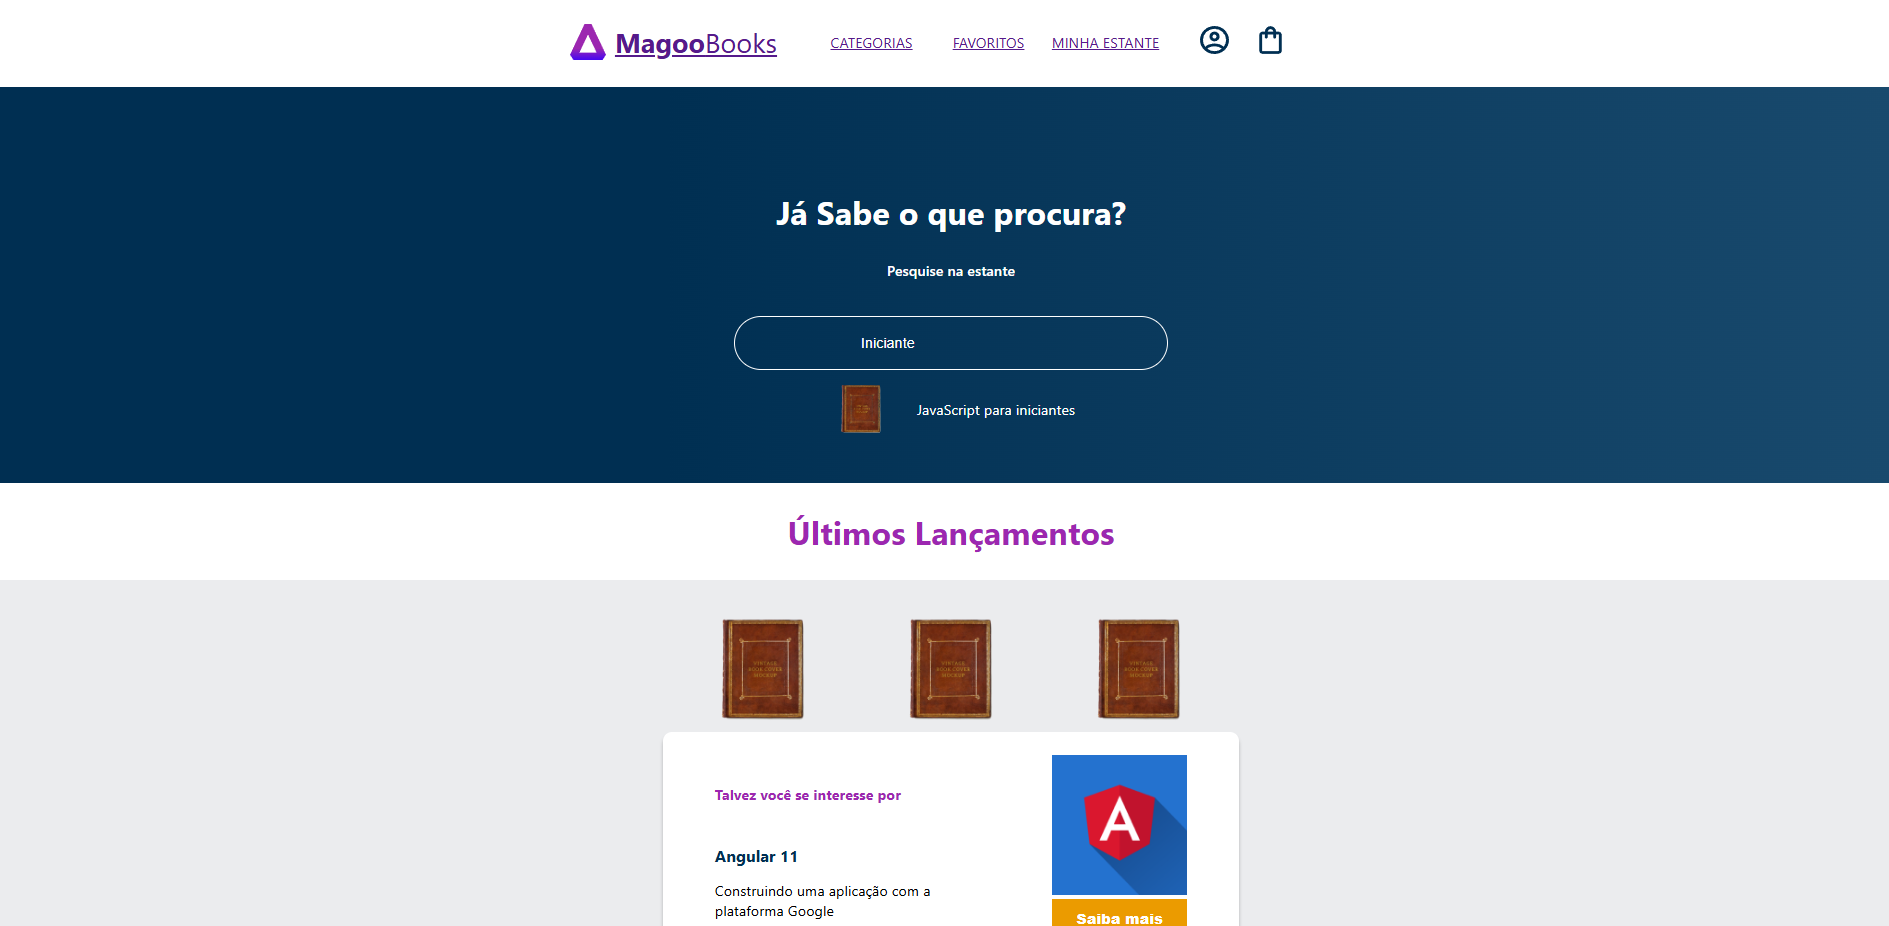
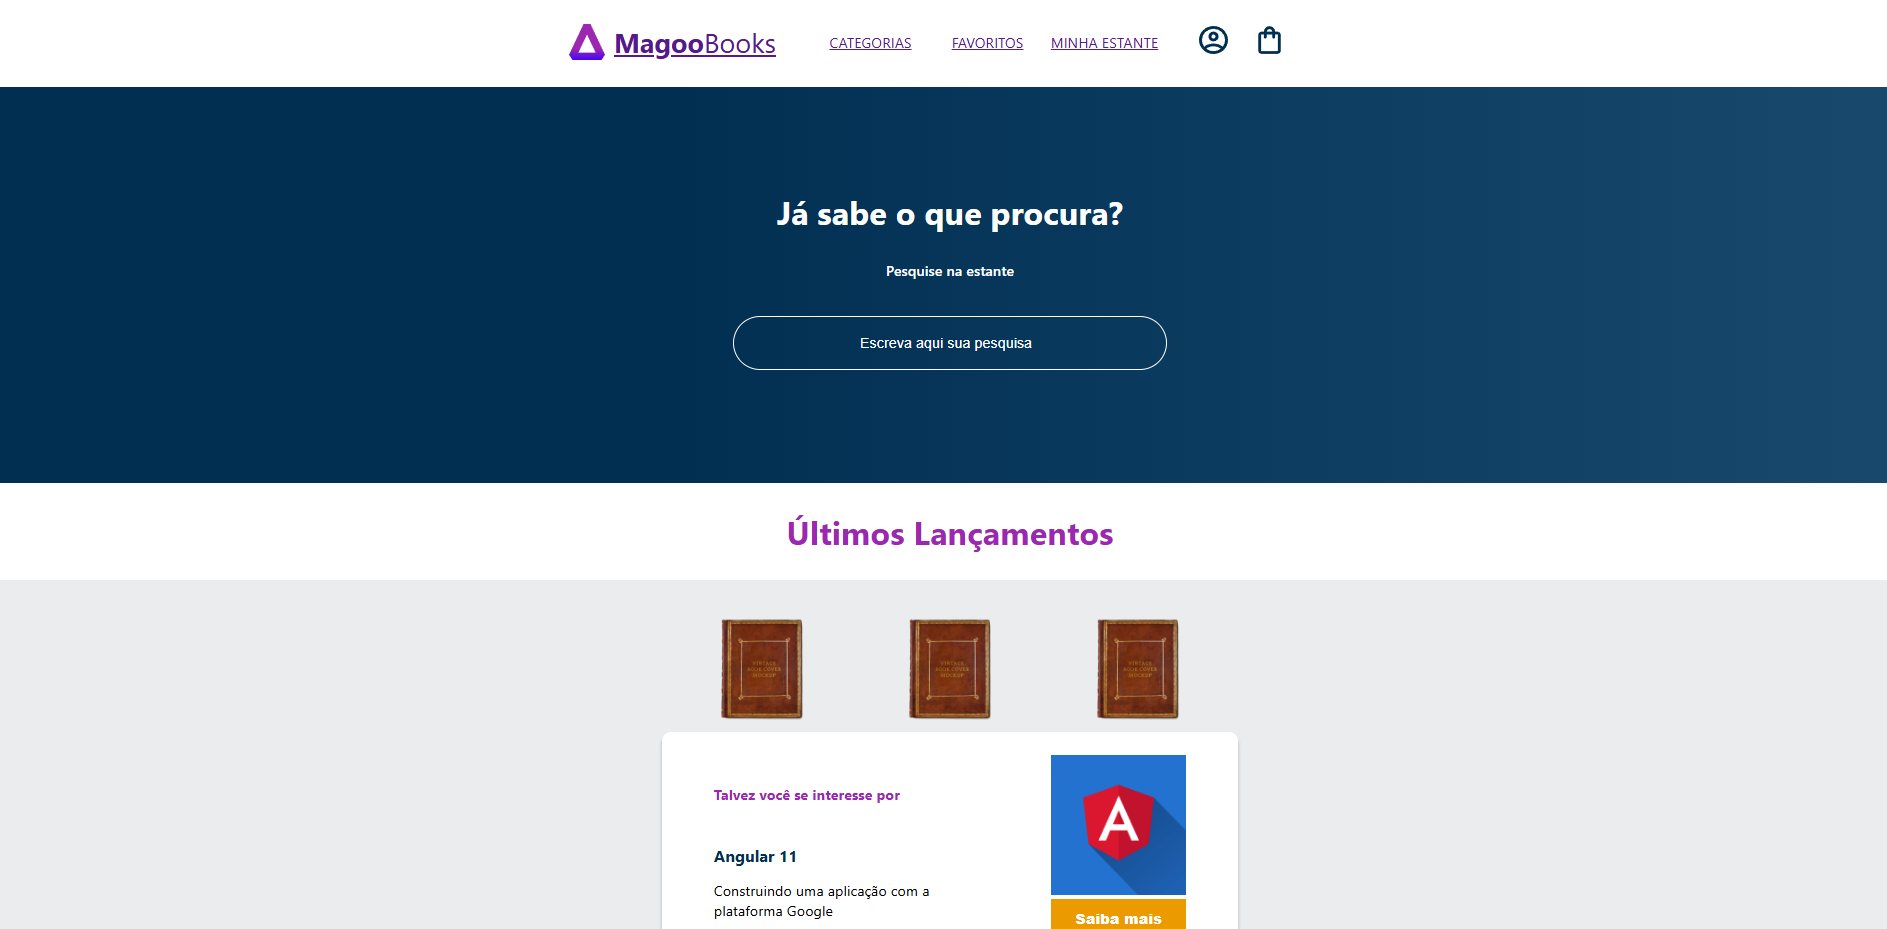
Adicionando informações no README

diff --git a/README.md b/README.md
@@ -18,9 +18,7 @@ O front-end do projeto é uma aplicação React que consome esta API.
 
 ## Exibição do projeto completo
 
-```
 ![Página principal](magoo-books.png)
-```
 
 ## Estrutura do projeto
 ```